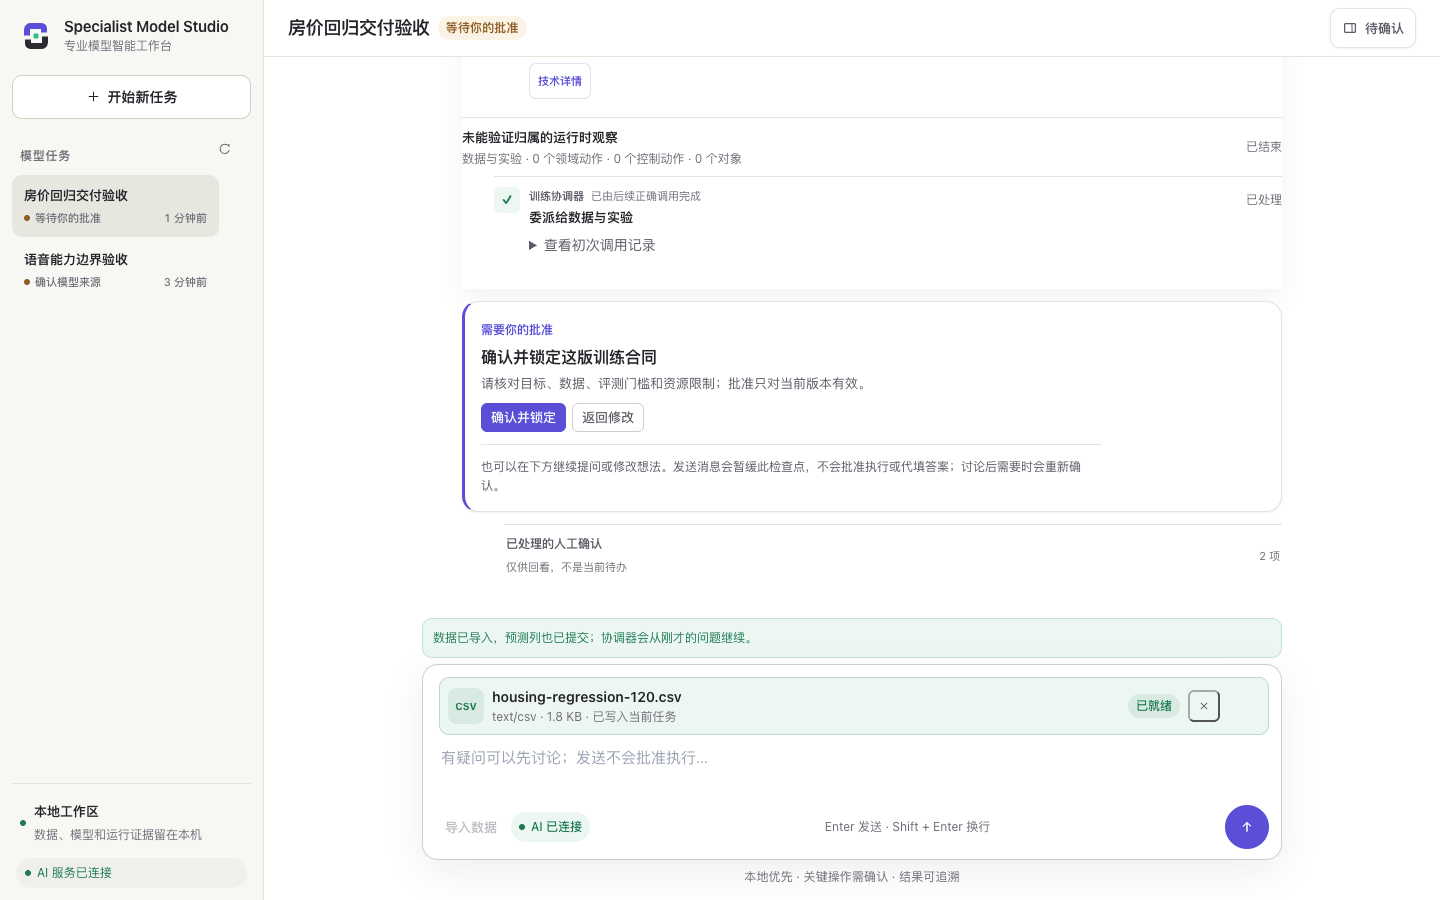
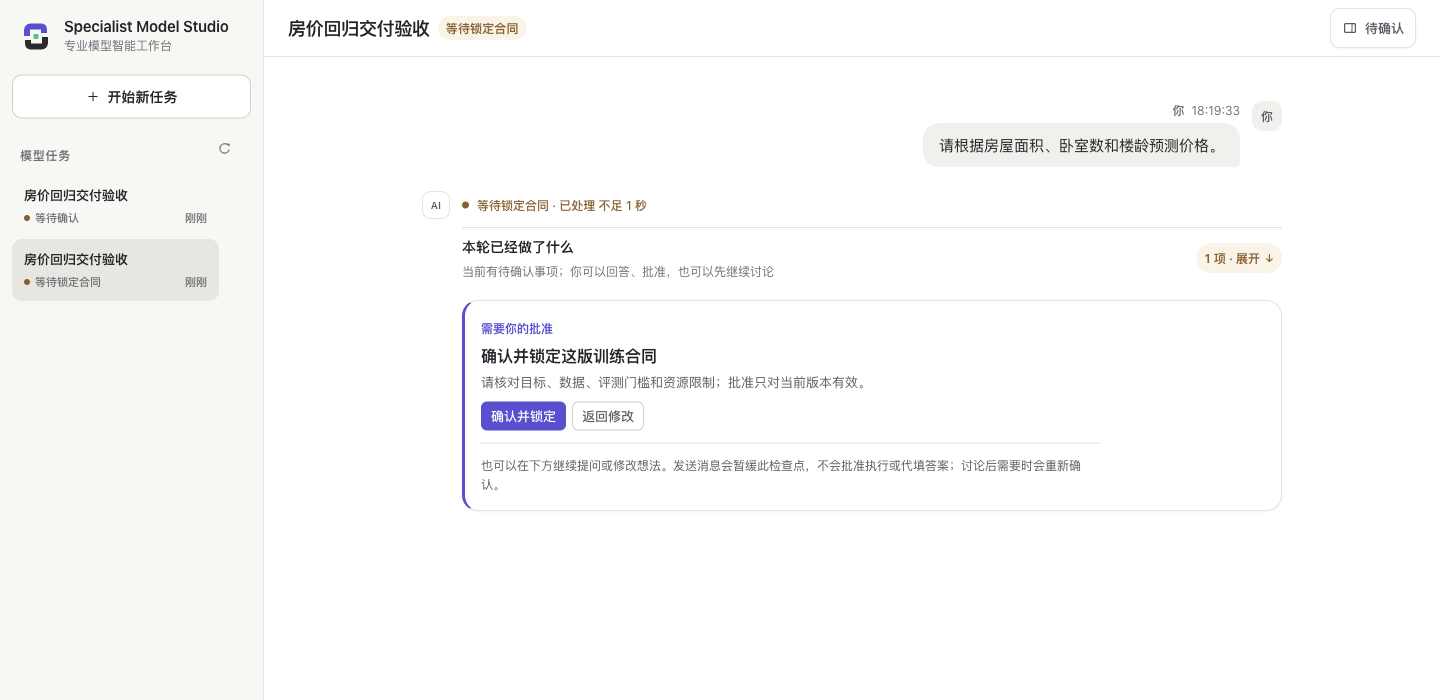
Show decision-specific approval status in the usage guide.
The published screenshots still used one generic waiting label, so the homepage could not show the current page status for locking a contract or starting training.

diff --git a/model_harness/web/styles.css b/model_harness/web/styles.css
@@ -499,7 +499,7 @@ body[data-view="home"] .topbar-title>div{display:none}
 .delegation-group{overflow:hidden;border:1px solid #e5e7ec;border-radius:10px;background:#fafafb}.delegation-group>summary{min-height:54px;display:grid;grid-template-columns:minmax(0,1fr) auto;gap:10px;align-items:center;padding:9px 11px;cursor:pointer;list-style:none}.delegation-group>summary::-webkit-details-marker{display:none}.delegation-group>summary>span{min-width:0;display:grid;gap:2px}.delegation-group>summary b{overflow-wrap:anywhere;color:var(--ink);font-size:13px}.delegation-group>summary small{overflow:hidden;color:var(--muted);font-size:11px;text-overflow:ellipsis;white-space:nowrap}.delegation-group>summary em{color:var(--muted);font-size:11px;font-style:normal}.delegation-group[data-status="running"]>summary em{color:var(--brand)}.delegation-group[data-status="failed"]{border-color:rgba(210,74,74,.25)}.delegation-group[data-status="failed"]>summary em{color:var(--red)}
 .agent-action-list{display:grid;padding:0 11px 8px}.agent-action-list .delegation-group{margin:8px 0 0 28px}.agent-action{min-width:0;display:grid;grid-template-columns:27px minmax(0,1fr) auto;gap:9px;align-items:start;padding:10px 0;border-top:1px solid #e7e9ee}.agent-action>i{width:27px;height:27px;display:grid;place-items:center;border-radius:8px;color:var(--green);background:var(--green-bg);font-size:12px;font-style:normal;font-weight:800}.agent-action[data-status="running"]>i{color:var(--brand);background:var(--brand-bg)}.agent-action[data-status="failed"]>i,.agent-action[data-status="identity_error"]>i{color:var(--red);background:var(--red-bg)}.agent-action[data-tool-class="control"]{opacity:.72}.agent-action>div{min-width:0}.agent-action-meta{display:flex;flex-wrap:wrap;align-items:center;gap:7px}.agent-action-meta b{color:var(--text);font-size:11px}.agent-action-meta small{color:var(--muted);font-size:11px}.agent-action h4{margin:3px 0 0;overflow-wrap:anywhere;color:var(--ink);font-size:13px;line-height:1.45}.agent-action>em{padding-top:4px;color:var(--muted);font-size:11px;font-style:normal;white-space:nowrap}.agent-action[data-status="running"]>em{color:var(--brand)}.agent-action[data-status="failed"]>em,.agent-action[data-status="identity_error"]>em{color:var(--red)}.agent-action-error,.agent-action-result{margin:5px 0 0;font-size:12px;line-height:1.5}.agent-action-error,.agent-action-result[data-state="failed"]{color:var(--red)}.agent-action-result{overflow-wrap:anywhere;color:var(--muted)}.agent-action-result[data-state="completed"]{color:var(--text)}.agent-action-result[data-state="loading"]{color:var(--brand)}.agent-action-evidence{display:flex;flex-wrap:wrap;gap:6px;margin-top:7px}.agent-action-evidence>.object-ref-list{margin:0}.agent-action-evidence>button{min-height:30px;padding:0 8px;border:1px solid #dfe2e8;border-radius:7px;color:var(--brand);background:#fff;font-size:11px;font-weight:680}.agent-action-evidence>button:hover{border-color:rgba(98,88,244,.38);background:var(--brand-bg)}.agent-action-evidence>button:focus-visible{outline:2px solid rgba(98,88,244,.42);outline-offset:2px}
 .action-timeline[data-status="waiting"]>summary>b{color:var(--amber);background:var(--amber-bg)}.delegation-group[data-status="waiting"]>summary em{color:var(--amber)}.agent-action[data-status="waiting"]>i{color:var(--amber);background:var(--amber-bg)}.agent-action[data-status="waiting"]>em,.agent-action-result[data-state="waiting"]{color:var(--amber)}
-.object-viewer{display:grid;gap:13px;padding:16px 1px}.object-viewer>header{display:flex;align-items:flex-start;justify-content:space-between;gap:12px}.object-viewer>header>div{display:grid;gap:3px}.object-viewer>header span{color:var(--brand);font-size:11px;font-weight:760;letter-spacing:.06em}.object-viewer h2{margin:0;overflow-wrap:anywhere;color:var(--ink);font-size:17px;line-height:1.35}.object-viewer>header>b{padding:4px 8px;border-radius:999px;color:var(--muted);background:#eef0f3;font-size:11px;white-space:nowrap}.object-viewer>header>b[data-state="completed"]{color:var(--green);background:var(--green-bg)}.object-viewer>header>b[data-state="failed"]{color:var(--red);background:var(--red-bg)}.object-viewer>p{margin:0;color:var(--muted);font-size:12px;line-height:1.6}.object-viewer dl{display:grid;gap:0;margin:0;border:1px solid #e4e6eb;border-radius:9px;background:#fff}.object-viewer dl>div{min-width:0;display:grid;grid-template-columns:88px minmax(0,1fr);gap:10px;padding:8px 10px;border-top:1px solid #eceef1}.object-viewer dl>div:first-child{border-top:0}.object-viewer dt{color:var(--muted);font-size:11px}.object-viewer dd{margin:0;overflow-wrap:anywhere;color:var(--ink);font-family:ui-monospace,SFMono-Regular,Menlo,monospace;font-size:11px}.object-viewer pre{min-height:180px;max-height:calc(100vh - 350px);margin:0;padding:12px;overflow:auto;border:1px solid #e2e4e9;border-radius:9px;color:#323746;background:#f8f9fb;font:11px/1.65 ui-monospace,SFMono-Regular,Menlo,monospace;white-space:pre-wrap;word-break:break-word}
+.object-viewer{display:grid;gap:13px;padding:16px 1px}.object-viewer>header{display:flex;align-items:flex-start;justify-content:space-between;gap:12px}.object-viewer>header>div{display:grid;gap:3px}.object-viewer>header span{color:var(--brand);font-size:11px;font-weight:760;letter-spacing:.06em}.object-viewer h2{margin:0;overflow-wrap:anywhere;color:var(--ink);font-size:17px;line-height:1.35}.object-viewer>header>b{padding:4px 8px;border-radius:999px;color:var(--muted);background:#eef0f3;font-size:11px;white-space:nowrap}.object-viewer>header>b[data-state="completed"]{color:var(--green);background:var(--green-bg)}.object-viewer>header>b[data-state="recorded"]{color:var(--ink);background:#eef0f3}.object-viewer>header>b[data-state="blocked"]{color:var(--red);background:var(--red-bg)}.object-viewer>header>b[data-state="running"]{color:var(--brand);background:var(--brand-bg)}.object-viewer>header>b[data-state="failed"]{color:var(--red);background:var(--red-bg)}.object-viewer>p{margin:0;color:var(--muted);font-size:12px;line-height:1.6}.object-viewer dl{display:grid;gap:0;margin:0;border:1px solid #e4e6eb;border-radius:9px;background:#fff}.object-viewer dl>div{min-width:0;display:grid;grid-template-columns:88px minmax(0,1fr);gap:10px;padding:8px 10px;border-top:1px solid #eceef1}.object-viewer dl>div:first-child{border-top:0}.object-viewer dt{color:var(--muted);font-size:11px}.object-viewer dd{margin:0;overflow-wrap:anywhere;color:var(--ink);font-family:ui-monospace,SFMono-Regular,Menlo,monospace;font-size:11px}.object-viewer pre{min-height:180px;max-height:calc(100vh - 350px);margin:0;padding:12px;overflow:auto;border:1px solid #e2e4e9;border-radius:9px;color:#323746;background:#f8f9fb;font:11px/1.65 ui-monospace,SFMono-Regular,Menlo,monospace;white-space:pre-wrap;word-break:break-word}
 .object-viewer-overview{display:grid;gap:12px;min-width:0}.object-viewer-overview h3,.object-viewer-overview h4{margin:0;color:var(--ink);font-size:14px}.object-viewer-overview p{margin:0;color:var(--muted);font-size:12px;line-height:1.7}.object-viewer-overview dd{font:12px/1.6 var(--font-sans,system-ui,sans-serif)}.object-viewer-overview ul{display:grid;gap:6px;margin:0;padding-left:18px;color:var(--text);font:11px/1.5 ui-monospace,SFMono-Regular,Menlo,monospace;overflow-wrap:anywhere}.object-viewer-details{min-width:0;border-top:1px solid var(--line);padding-top:8px}.object-viewer-details>summary{min-height:36px;align-content:center;color:var(--muted);cursor:pointer;font-size:12px}.object-viewer-details>summary:focus-visible{outline:2px solid var(--brand);outline-offset:2px}
 .capability-axes{display:grid;grid-template-columns:repeat(2,minmax(0,1fr));gap:8px;margin:10px 0}.capability-axes>div{min-width:0;display:grid;gap:4px;padding:10px;border:1px solid #e4e6eb;border-radius:9px;background:#fafafb}.capability-axes>div>span{color:var(--muted);font-size:11px}.capability-axes>div>b{overflow-wrap:anywhere;color:var(--ink);font-size:12px}.capability-axes>div>b[data-state="available"],.capability-axes>div>b[data-state="completed"]{color:var(--green)}.capability-axes>div>b[data-state="running"]{color:var(--brand)}.capability-axes>div>b[data-state="blocked"]{color:var(--amber)}.capability-axes>div>small{color:var(--muted);font-size:11px;line-height:1.5}.capability-axes>p{grid-column:1/-1;margin:0;padding:7px 9px;border-radius:7px;color:var(--text);background:#f4f5f7;font-size:11px;line-height:1.5}.capability-axes>p:last-child{color:var(--amber);background:var(--amber-bg)}
 

diff --git a/integrations/deepseek-harness/test/frontend-product-wiring.test.js b/integrations/deepseek-harness/test/frontend-product-wiring.test.js
@@ -466,7 +466,7 @@ test("conversation-native shell keeps dialogue primary and reveals only task-own
   assert.match(app, /actionTimelineDisclosure: new Map\(\)/);
   assert.match(app, /state\.actionTimelineDisclosure\.set\(disclosureKey, section\.open\)/);
   assert.match(app, /function hydrateActionTimelineResults\(section, actions\)/);
-  assert.match(app, /details\.open = depth === 0 \|\| running \|\| waitingForAnswer \|\| hasFailure/);
+  assert.match(app, /details\.open = hasFailure \|\| running \|\| waitingForAnswer \|\| \(!group\.unverified && !waitingForHuman && depth === 0\)/);
   assert.match(app, /const rootAgent = \{ id: "root-agent"/);
   assert.match(app, /group\.binding\?\.target_agent_id/);
   assert.match(app, /group\.root \? "训练协调器" : roleLabel\(summaryRole\)/);
@@ -803,7 +803,7 @@ test("AI-human mode keeps one decision foregrounded and accepts natural-language
   assert.match(html, /请先帮我判断是否需要训练/);
   assert.match(app, /function isPendingHumanCheckpoint\(item\)/);
   assert.match(app, /checkpoint\?\.kind === "question"\) return \{ label: "等待你的回答"/);
-  assert.match(app, /checkpoint\?\.kind === "approval"\) return \{ label: "等待你的批准"/);
+  assert.match(app, /checkpoint\?\.kind === "approval"\) return \{ label: approvalPresentation\(checkpoint\)\.header/);
   assert.match(app, /workflowStatus\(task, conversation = null\)/);
   assert.match(app, /syncTaskHeader\(state\.task, conversation, projection\)/);
   assert.match(app, /checkpoint_rpc_id: submission\.checkpoint_rpc_id/);
@@ -1023,7 +1023,7 @@ test("a backend-resolved historical failure stays auditable without remaining cu
   assert.match(timeline, /\["failed", "identity_error"\]\.includes\(action\.status\) && !recoveredFailures\.has\(action\) && !isUserDeclinedAction\(action\)/);
   assert.doesNotMatch(timeline, /recoveredFailures\.size \? "执行已恢复"/);
   assert.doesNotMatch(timeline, /本轮曾遇到问题，后续执行已经恢复/);
-  assert.match(recoveredRow, /timing\.textContent = "已由后续正确调用完成"/);
+  assert.match(recoveredRow, /timing\.textContent = "已完成"/);
   assert.match(recoveredRow, /summary\.textContent = "查看初次调用记录"/);
   assert.match(recoveredRow, /status\.textContent = "已处理"/);
   assert.match(recoveredRow, /evidence\.dataset\.originalStatus = action\.status/);
@@ -1128,7 +1128,7 @@ test("an empty capability match is rendered as an honest boundary, not a system 
     ),
     { state: "completed", text: "训练方案返回 0 项结果" },
   );
-  assert.match(app, /timing\.textContent = "已由后续正确调用完成"/);
+  assert.match(app, /timing\.textContent = "已完成"/);
   assert.match(app, /status\.textContent = "已处理"/);
   assert.doesNotMatch(app, /timing\.textContent = "后续执行已恢复"/);
 });
@@ -1190,7 +1190,7 @@ test("composer attachment chip exposes honest states and retries the same reques
 
   assert.match(html, /id="composerAttachment"[^>]*data-state="pending"[^>]*role="group"[^>]*aria-label="所选文件"/);
   assert.match(html, /id="attachmentStatus"[^>]*role="status"[^>]*aria-live="polite"/);
-  assert.match(app, /const COMPOSER_ATTACHMENT_STATUS = \{ pending: "待核对", validating: "校验中", ready: "已就绪", failed: "失败" \}/);
+  assert.match(app, /const COMPOSER_ATTACHMENT_STATUS = \{ pending: "待核对", validating: "校验中", ready: "已导入", failed: "失败" \}/);
   assert.match(app, /function stageComposerAttachment\(file\)/);
   assert.match(app, /request_id: createConversationRequestId\(\), status: "pending"/);
   assert.match(app, /function retryComposerAttachment\(\)/);

diff --git a/model_harness/web/visual-system.css b/model_harness/web/visual-system.css
@@ -1149,6 +1149,7 @@ body .recovered-action-evidence > summary {
 
 body .csv-schema-overview {
   display: flex;
+  flex-wrap: wrap;
   align-items: flex-start;
   justify-content: space-between;
   gap: var(--space-3);
@@ -1168,9 +1169,11 @@ body .csv-schema-overview b {
 
 body .csv-schema-overview span,
 body .csv-target-block > small {
+  min-width: 0;
   color: var(--text-tertiary);
   font-size: var(--text-xs);
   line-height: var(--leading-xs);
+  overflow-wrap: anywhere;
 }
 
 body .csv-column-choices {
